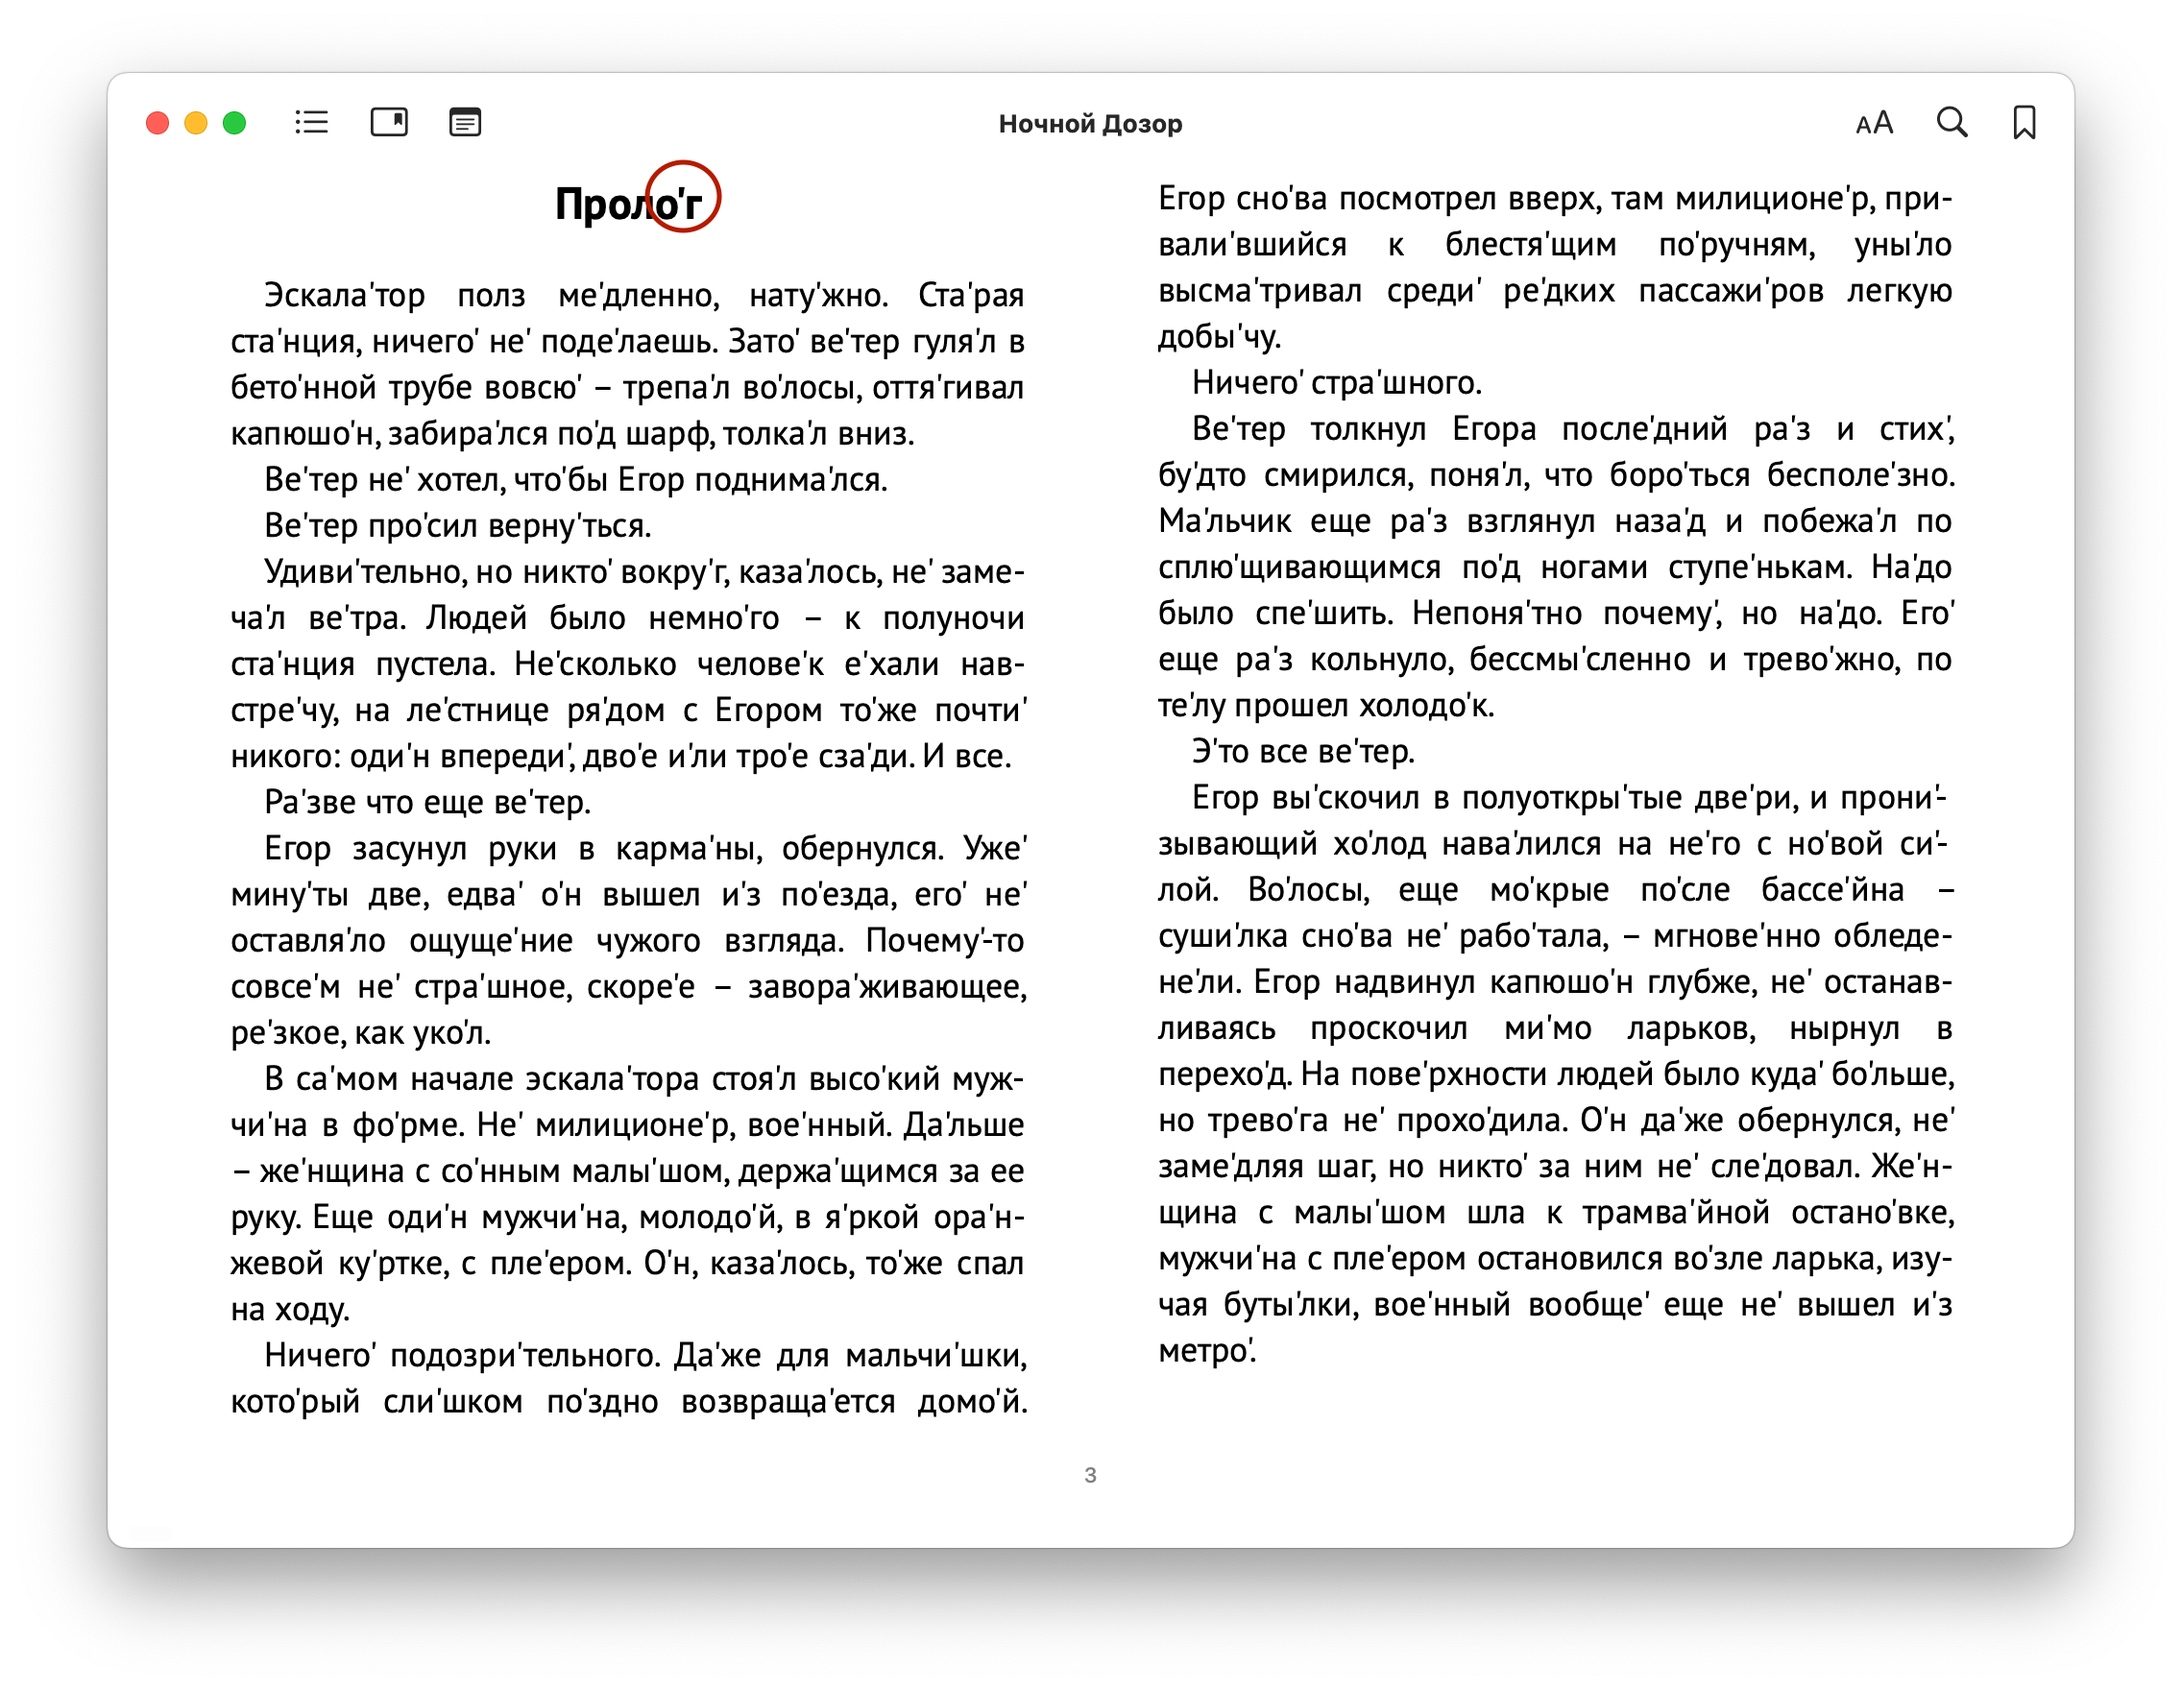
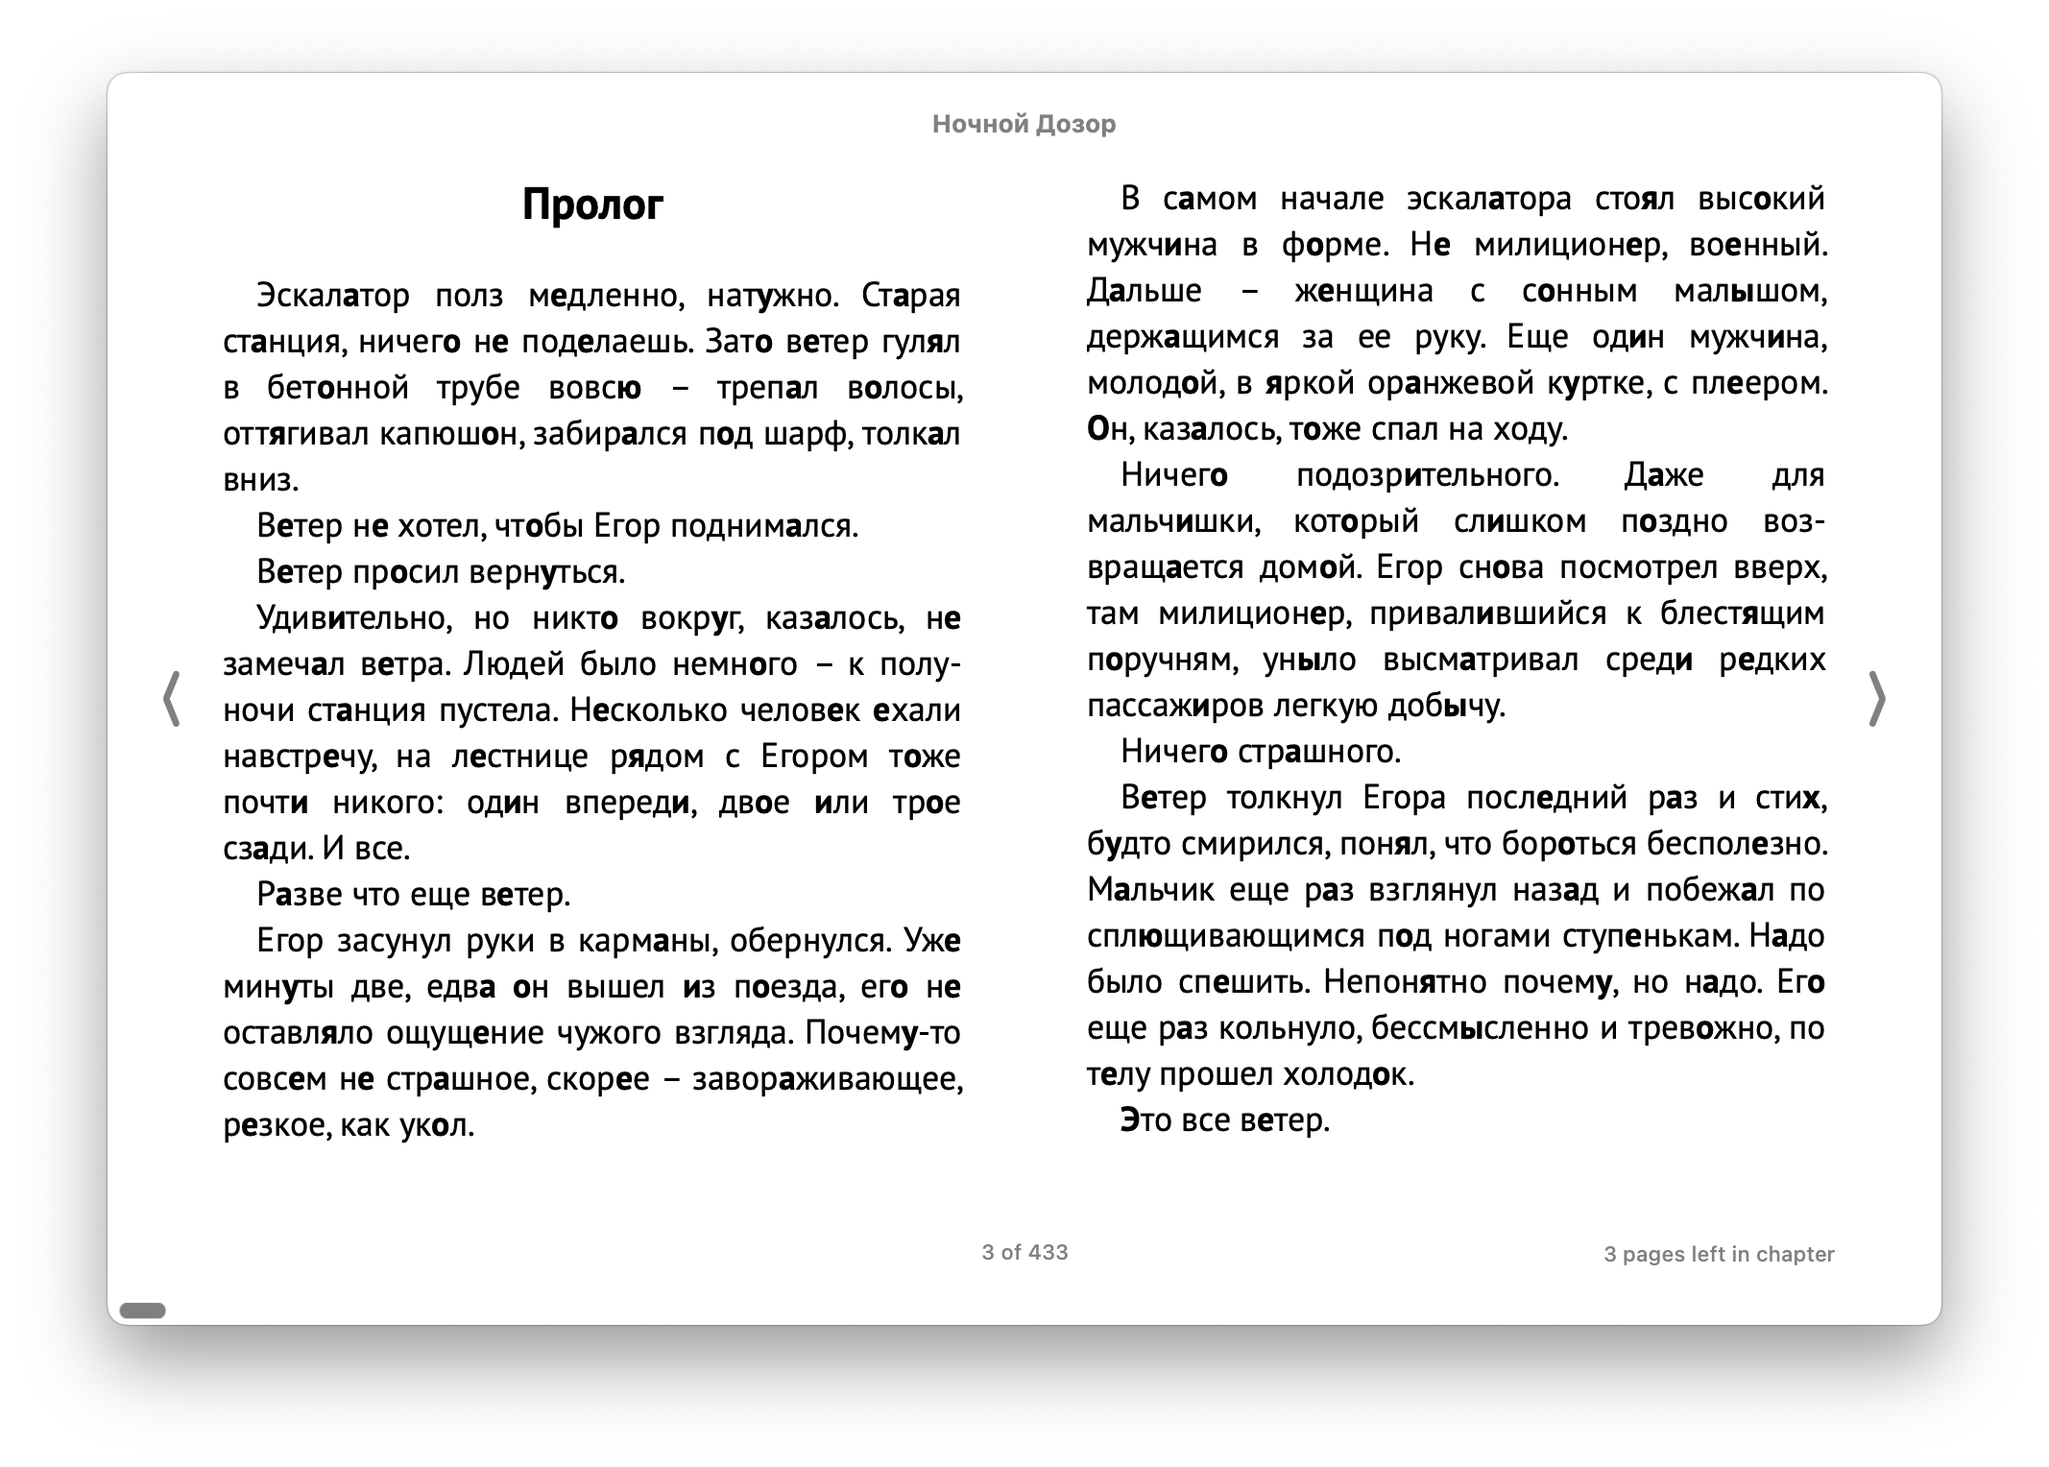
readme v2

diff --git a/src/main/java/pl/marcinchwedczuk/Main.java b/src/main/java/pl/marcinchwedczuk/Main.java
@@ -83,6 +83,7 @@ public class Main {
             public void tail(Node node, int depth) { }
         });
 
+        // TODO: Check if we can replace text with HTML in the accent dictionary
         return document.html().replaceAll("(.)@@", "<b>$1</b>");
     }
 

diff --git a/README.md b/README.md
@@ -1,18 +1,26 @@
-# Prosty skrypt który dodaje akcent w rosyjskich słowach do ksiażek w formacie EPUB
+# Prosty skrypt dodający akcenty w rosyjskich słowach do książek w formacie EPUB
 
-Jak do działa? Uruchom program ze ścieżką do pliku EPUB jako parameterem.
-W tym samym katalogu zostanie utworzyony nowy plik z nazwą kończącą się na `-with-accent.epub`.
+## Jak to działa?
 
-Przykładowa ksiażka z dodanym akcentem:
+Uruchom program, podając ścieżkę do pliku EPUB jako parametr. W tym samym katalogu zostanie utworzony nowy plik o nazwie kończącej się na `-with-accent.epub`.
+
+Przykład książki z dodanymi akcentami:  
 ![screen 1](./docs/screen1.png)
 
-Obecne ograniczenia programu:
+## Jak używać książek z akcentami na Kindle?
 
-- Program bazuje na darmowym i otwartym słowniku [openrussian.org](https://openrussian.org),
- jest to słownik tworzony przez wolontariuszy. Pewnych słów może w nim brakować, w innych akcent może być
- niepoprawnie dodany. Korzystasz na własną odpowiedzialność.
-- Dodanie akcentu sprawia że słowniki rosyjsko polskie mogą _nie działać_ poprawnie. 
- Planuję stworzyć specjalny słownik wyrazów z akcentem dla Kindla, ale zajmie mi to pewnie jeszcze trochę czasu.
- Jeżeli ktos potrzebuję i akcentu i działającego słownika to skrypt można łatwo przerobić tak żeby
- literka z akcentem była pogrubiana.
-- Program do działania wymaga JDK 21.
+1. Najpierw dodaj akcenty do pliku `.epub` za pomocą programu.
+2. Następnie użyj darmowego programu [Calibre](https://calibre-ebook.com/), aby przekonwertować plik `.epub` na `.azw` (format `.mobi` nie obsługuje pogrubiania pojedynczych liter).
+3. Wgraj plik `.azw` na Kindle i ciesz się książką z akcentami!  
+   ![screen 2](./docs/screen2.png)
+
+## Obecne ograniczenia programu
+
+- Program korzysta z darmowego i otwartego słownika [openrussian.org](https://openrussian.org), który jest tworzony przez wolontariuszy. Może się zdarzyć, że pewnych słów w nim brakuje lub że akcenty zostały dodane niepoprawnie. Korzystasz na własną odpowiedzialność.
+
+- Do działania programu wymagane jest zainstalowanie JDK 21.
+
+## Podobne programy
+
+- https://github.com/Vuizur/add-stress-to-epub
+- https://github.com/FreeLanguageTools/stress-russian-books
